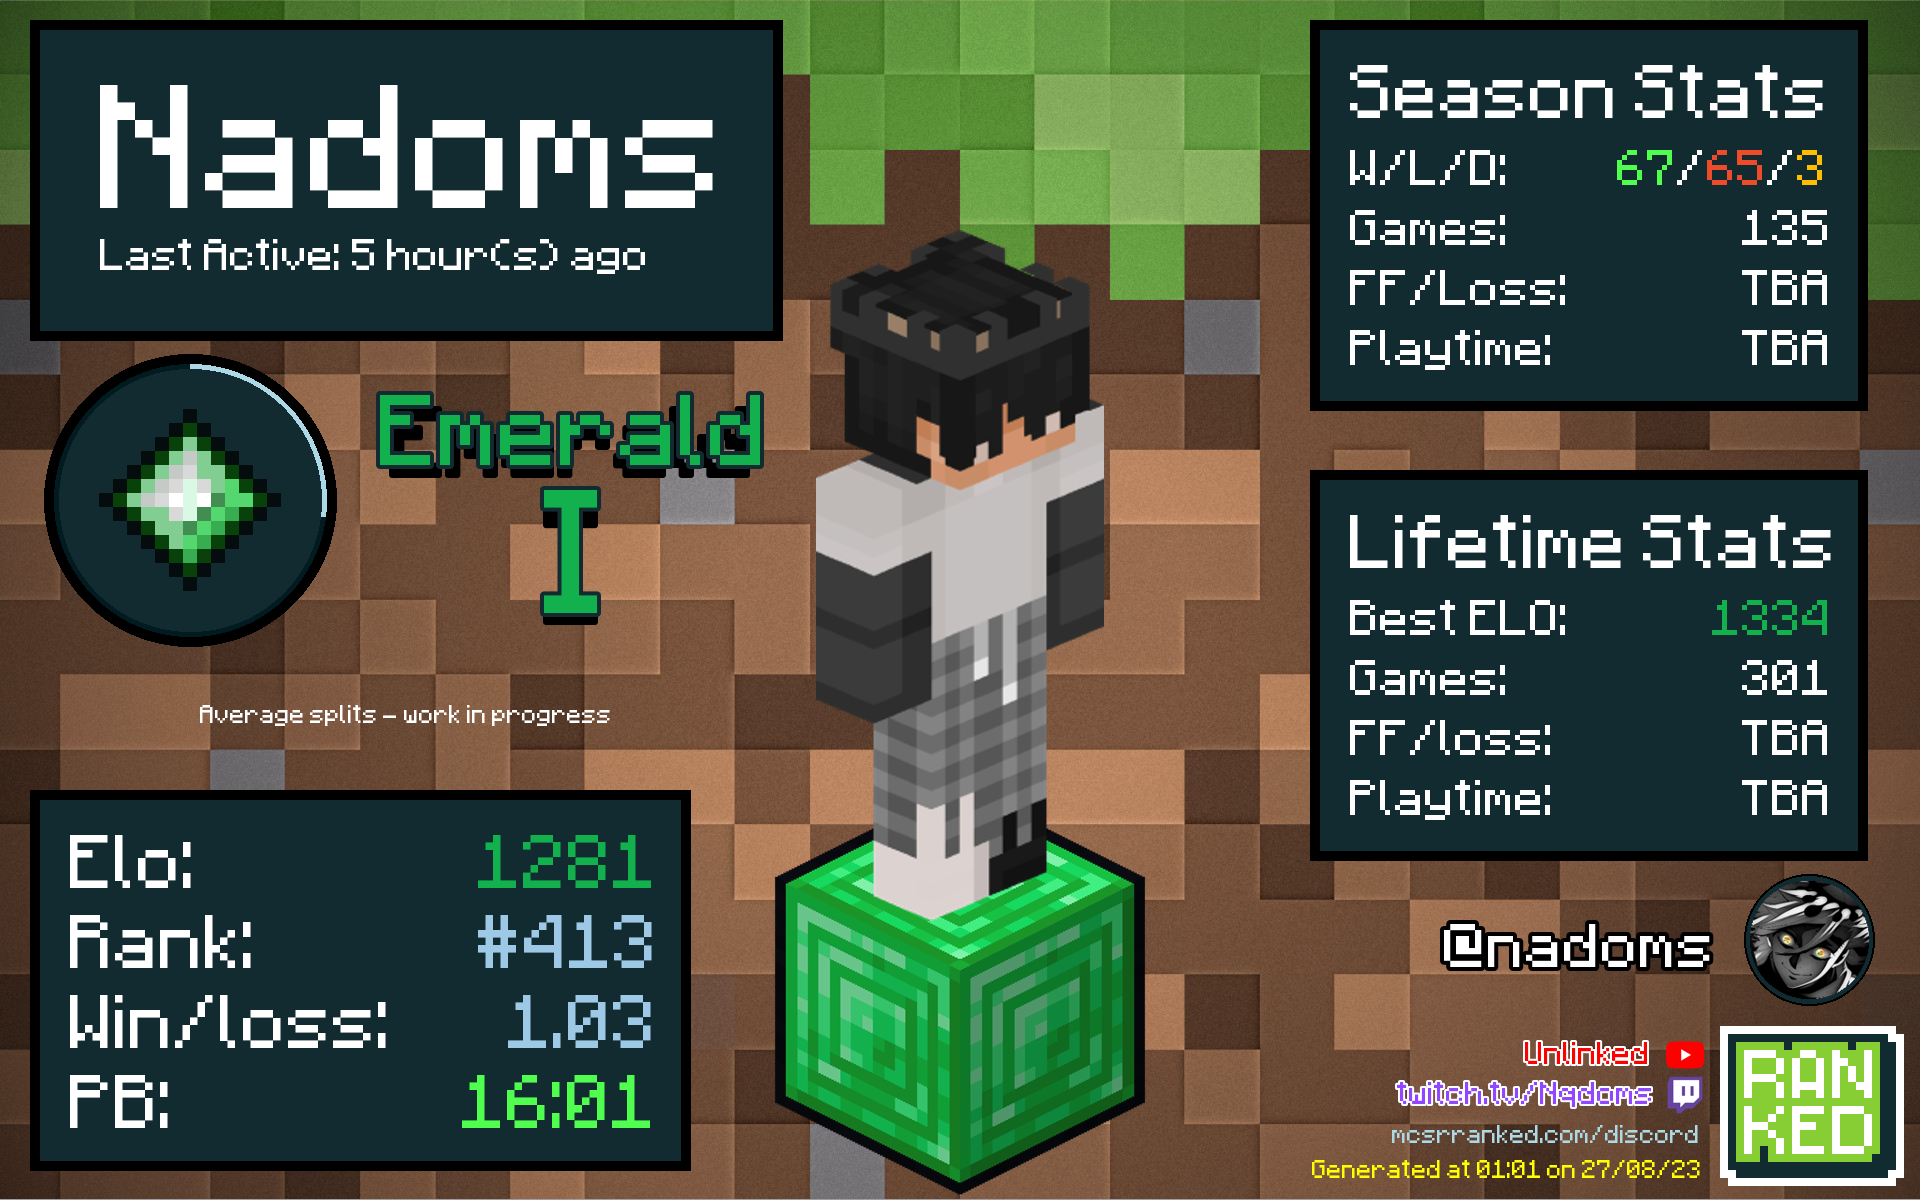
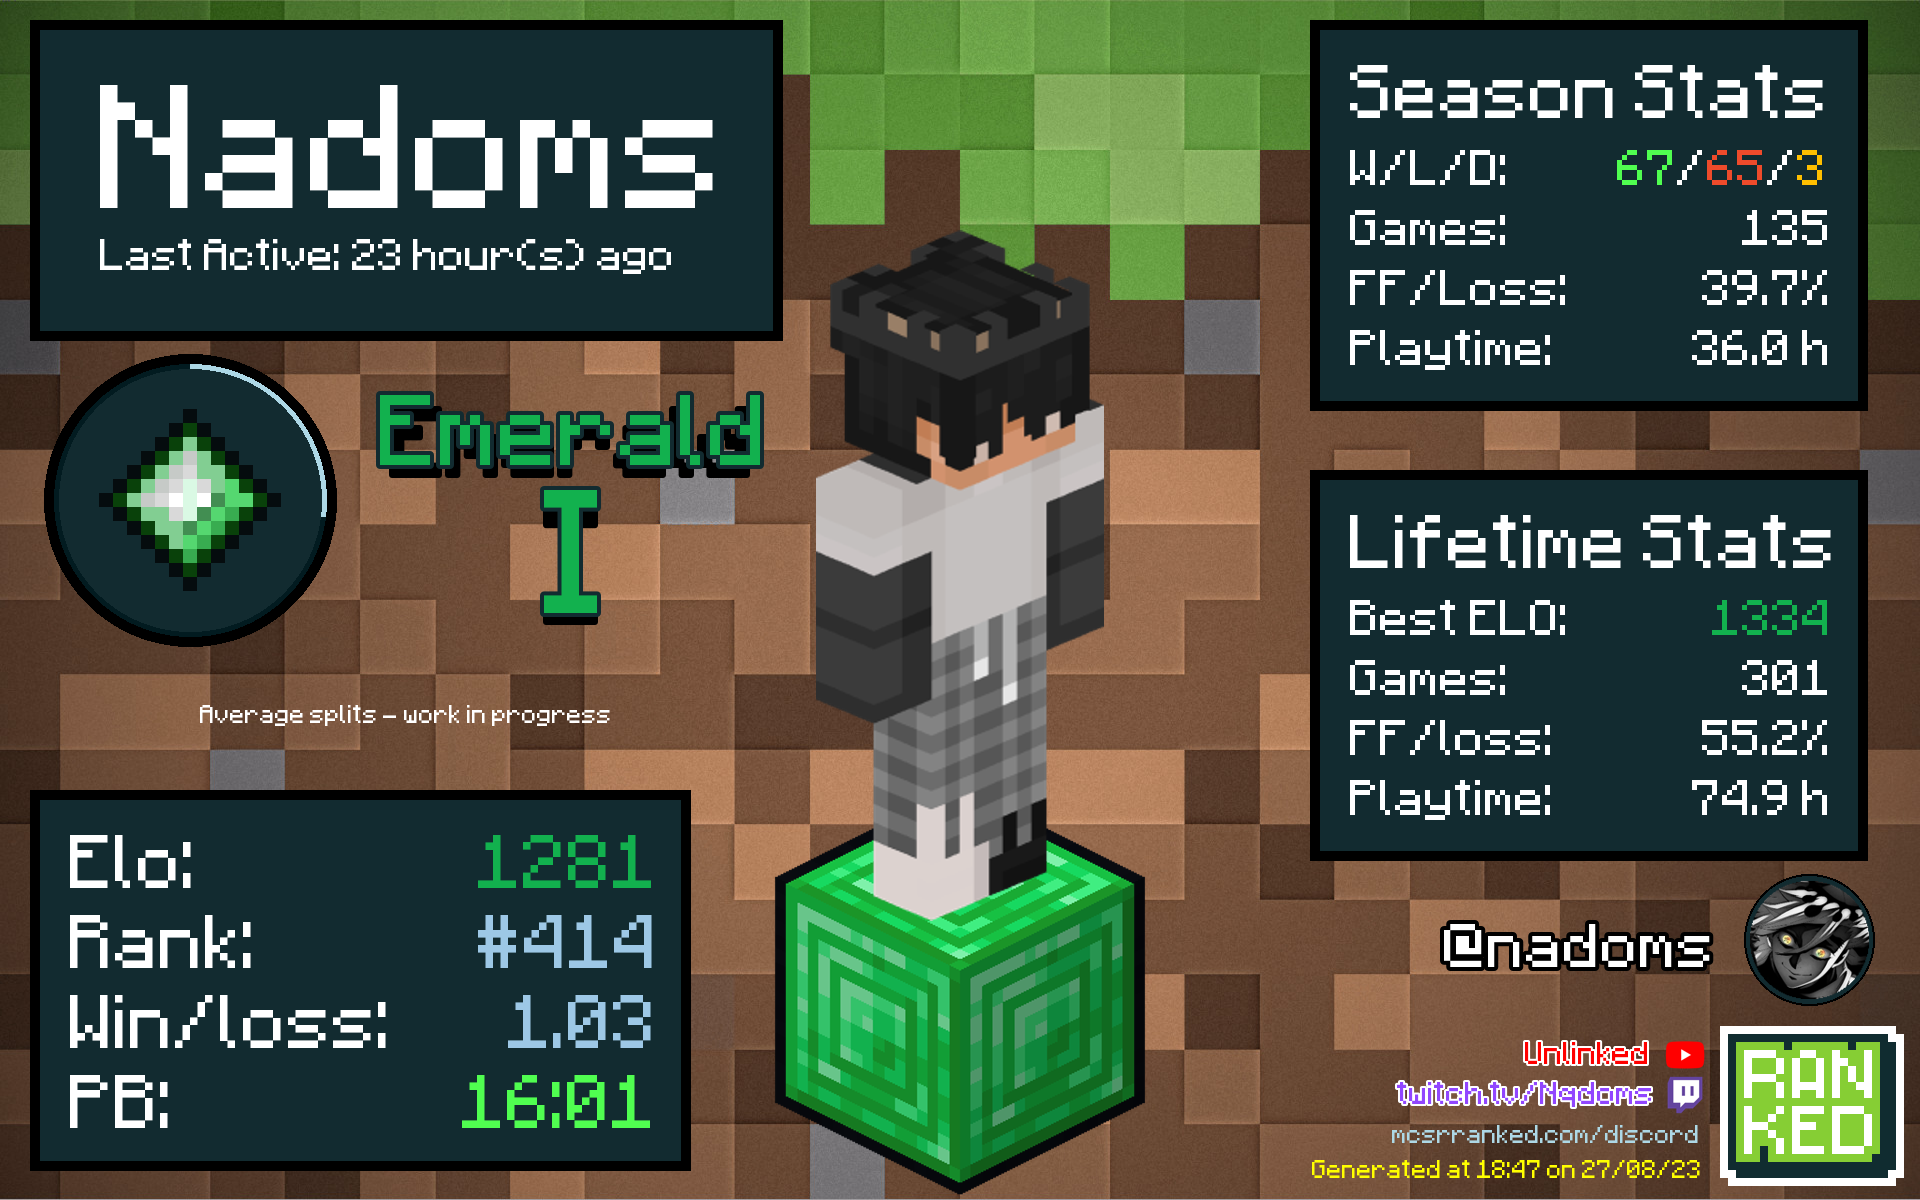
Added playtime and ff/loss stats

diff --git a/src/add_stats.py b/src/add_stats.py
@@ -4,6 +4,7 @@ from datetime import timedelta
 
 from . import word
 from . import rank
+from . import matches
 
 def write(card, name):
     response = requests.get(f"https://mcsrranked.com/api/users/{name}").json()["data"]
@@ -121,8 +122,8 @@ def get_season_stats(response):
     losses = str(response["records"]["2"]["lose"])
     draws = str(response["records"]["2"]["draw"])
     games = str(response["season_played"])
-    forfeit_loss = str("TBA")
-    playtime = str("TBA")
+    forfeit_loss = str(matches.get_ff_loss(response["nickname"], True))
+    playtime = str(matches.get_playtime(response["nickname"], True))
 
     return [["W/L/D:",
              "Games:",
@@ -130,14 +131,14 @@ def get_season_stats(response):
              "Playtime:"],
             [f"{wins}/{losses}/{draws}",
              games,
-             forfeit_loss,
-             f"{playtime}"]]
+             f"{forfeit_loss}%",
+             f"{playtime} h"]]
 
 def get_lifetime_stats(response):
     best_elo = str(response["best_elo_rate"])
     games = str(response["total_played"])
-    forfeit_loss = str("TBA")
-    playtime = str("TBA")
+    forfeit_loss = str(matches.get_ff_loss(response["nickname"], False))
+    playtime = str(matches.get_playtime(response["nickname"], False))
 
     return [["Best ELO:",
              "Games:",
@@ -145,8 +146,8 @@ def get_lifetime_stats(response):
              "Playtime:"],
             [best_elo,
              games,
-             forfeit_loss,
-             f"{playtime}"]]
+             f"{forfeit_loss}%",
+             f"{playtime} h"]]
 
 def get_major_stats(response):
     elo = str(response["elo_rate"])

diff --git a/src/matches.py b/src/matches.py
@@ -1,0 +1,42 @@
+import requests
+from datetime import timedelta
+
+def get_matches(name, season):
+    matches = []
+    if season:
+        response = ["PLACEHOLDER"]
+        i = 0
+        while response != []:
+            response = requests.get(f"https://mcsrranked.com/api/users/{name}/matches?page={i}&count=50&filter=2").json()["data"]
+            matches += response
+            i += 1
+        return matches
+    for s in range(0,5):
+        response = ["PLACEHOLDER"]
+        i = 0
+        while response != []:
+            response = requests.get(f"https://mcsrranked.com/api/users/{name}/matches?page={i}&count=50&filter=2&season={s}").json()["data"]
+            matches += response
+            i += 1
+    return matches
+
+def get_playtime(name, season):
+    matches = get_matches(name, season)
+    playtime = 0
+    for match in matches:
+        playtime += match["final_time"]
+    hours = round(timedelta(milliseconds=playtime).total_seconds() / 3600, 1)
+    return hours
+
+def get_ff_loss(name, season):
+    uuid = requests.get(f"https://mcsrranked.com/api/users/{name}").json()["data"]["uuid"]
+    matches = get_matches(name, season)
+    forfeits = 0
+    losses = 0
+    for match in matches:
+        if match["winner"] != uuid:
+            losses += 1
+            if match["forfeit"] == True:
+                forfeits += 1
+    forfeit_loss = round(forfeits / losses * 100, 1)
+    return forfeit_loss

diff --git a/card.py b/card.py
@@ -31,5 +31,3 @@ def __main__(input_name, pfp):
         return card
     else:
         print("Player not found.")
-
-# __main__("nadoms", "https://cdn.discordapp.com/avatars/343108228890099713/25add9f8ccc5c06fae4e36c042aeaf10?size=1024").show()
